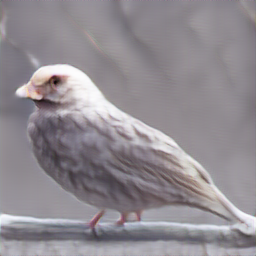
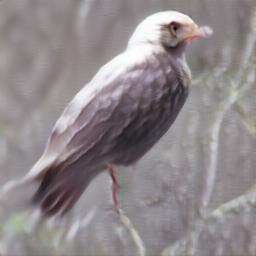
connect fe and be

diff --git a/fe/src/components/TextInput/TextInput.jsx b/fe/src/components/TextInput/TextInput.jsx
@@ -25,7 +25,10 @@ function TextInput({parentCallback}){
         .then(message => {
             setFormData('')
             document.getElementById('text-input').value = ''
-            fetchMyAPI()
+            return fetchMyAPI()
+        })
+        .then((json) => {
+            parentCallback(json)
         })
         .catch((err) => console.log(err))
     }
@@ -34,7 +37,7 @@ function TextInput({parentCallback}){
     async function fetchMyAPI() {
         let response = await fetch('/get_image')
         response = await response.json()
-        parentCallback(response)
+        return response
     }
 
     const handleChange = (event) => {

diff --git a/fe/src/components/ImageOutput/ImageOutput.jsx b/fe/src/components/ImageOutput/ImageOutput.jsx
@@ -3,7 +3,14 @@ import './ImageOutput.css'
 
 function ImageOutput({image}) {
     // const imgSrc = image.data?.image_path
-    const initPath = '/../../image/content/generates/single/'
+    // const tryRequire = (path) => {
+    //     try {
+    //      return require(`${path}`);
+    //     } catch (err) {
+    //      return null;
+    //     }
+    //   };
+    const initPath = './image/content/generates/single/'
     return (
         <div className='center-block text-center'>
             { image !== undefined &&

diff --git a/fe/src/App.jsx b/fe/src/App.jsx
@@ -1,4 +1,4 @@
-import React, {useState} from 'react';
+import React, { useState } from 'react';
 import './App.css';
 
 import Header from './components/Header/Header.jsx';

diff --git a/server/server.py b/server/server.py
@@ -6,6 +6,7 @@ from model import RNN_ENCODER, CNN_ENCODER
 from miscc.config import cfg, cfg_from_file
 from miscc.utils import weights_init, load_params, copy_G_params
 from miscc.utils import mkdir_p
+import time
 
 import torch.utils.data as data
 from torch.autograd import Variable
@@ -189,7 +190,7 @@ def generate_image(caption):
     print('Load G from: ', model_dir)
 
 
-    save_dir = "../fe/src/image/content/generates"
+    save_dir = "../fe/src/components/ImageOutput/image/content/generates"
     mkdir_p(save_dir)
 
     # prepare data minimal
@@ -254,14 +255,13 @@ def get_text_input():
 @app.route("/get_image")
 def get_image():
     query = Images.query.all()
-    result = {}
-    for row in query:
-        result = {
-            'id': row.id,
-            'name': row.name,
-            'image_path': row.image_path
-        }
+    result = {
+        'id': query[-1].id,
+        'name': query[-1].name,
+        'image_path': query[-1].image_path
+    }
     image_path = generate_image(result['name'])
+    time.sleep(3)
     query = Images.query.filter_by(id=result['id']).first()
     query.image_path = image_path
     result['image_path'] = image_path
